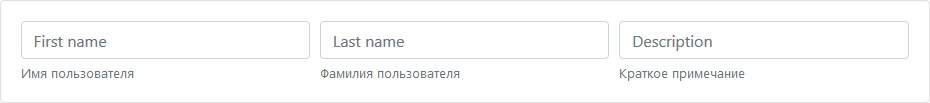
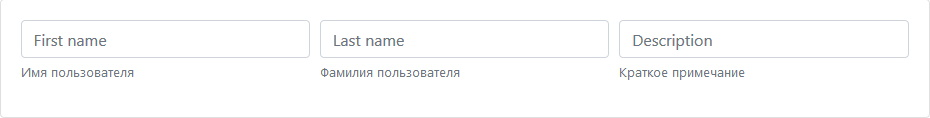
~

diff --git a/Service/bootstrap/forms/README.md b/Service/bootstrap/forms/README.md
@@ -807,7 +807,7 @@
 </form>
 ```
 
-Вручную из низкоуровневых HTML тегов можно собирать различные конфигурации
+Вручную из низкоуровневых HTML тегов можно собирать самые различные макеты
 ```cshtml
 @{
   BootstrapFormManager form = new BootstrapFormManager() { ID = "domo-form-dom-id" };
@@ -911,14 +911,15 @@
 ```html
 <form accept-charset="utf-8" id="domo-form-dom-id">
   <div class="form-row">
-    <div class="col">
+    <div class="form-group col">
       <input aria-describedby="-HelpCaption" placeholder="First name" type="text" class="form-control">
-      <small id="-HelpCaption" class="form-text text-muted">Имя пользователя</small>  </div>
-    <div class="col">
+      <small id="-HelpCaption" class="form-text text-muted">Имя пользователя</small>
+    </div>
+    <div class="form-group col">
       <input aria-describedby="-HelpCaption" placeholder="Last name" type="text" class="form-control">
       <small id="-HelpCaption" class="form-text text-muted">Фамилия пользователя</small>
     </div>
-    <div class="col">
+    <div class="form-group col">
       <input aria-describedby="-HelpCaption" placeholder="Description" type="text" class="form-control">
       <small id="-HelpCaption" class="form-text text-muted">Краткое примечание</small>
     </div>
